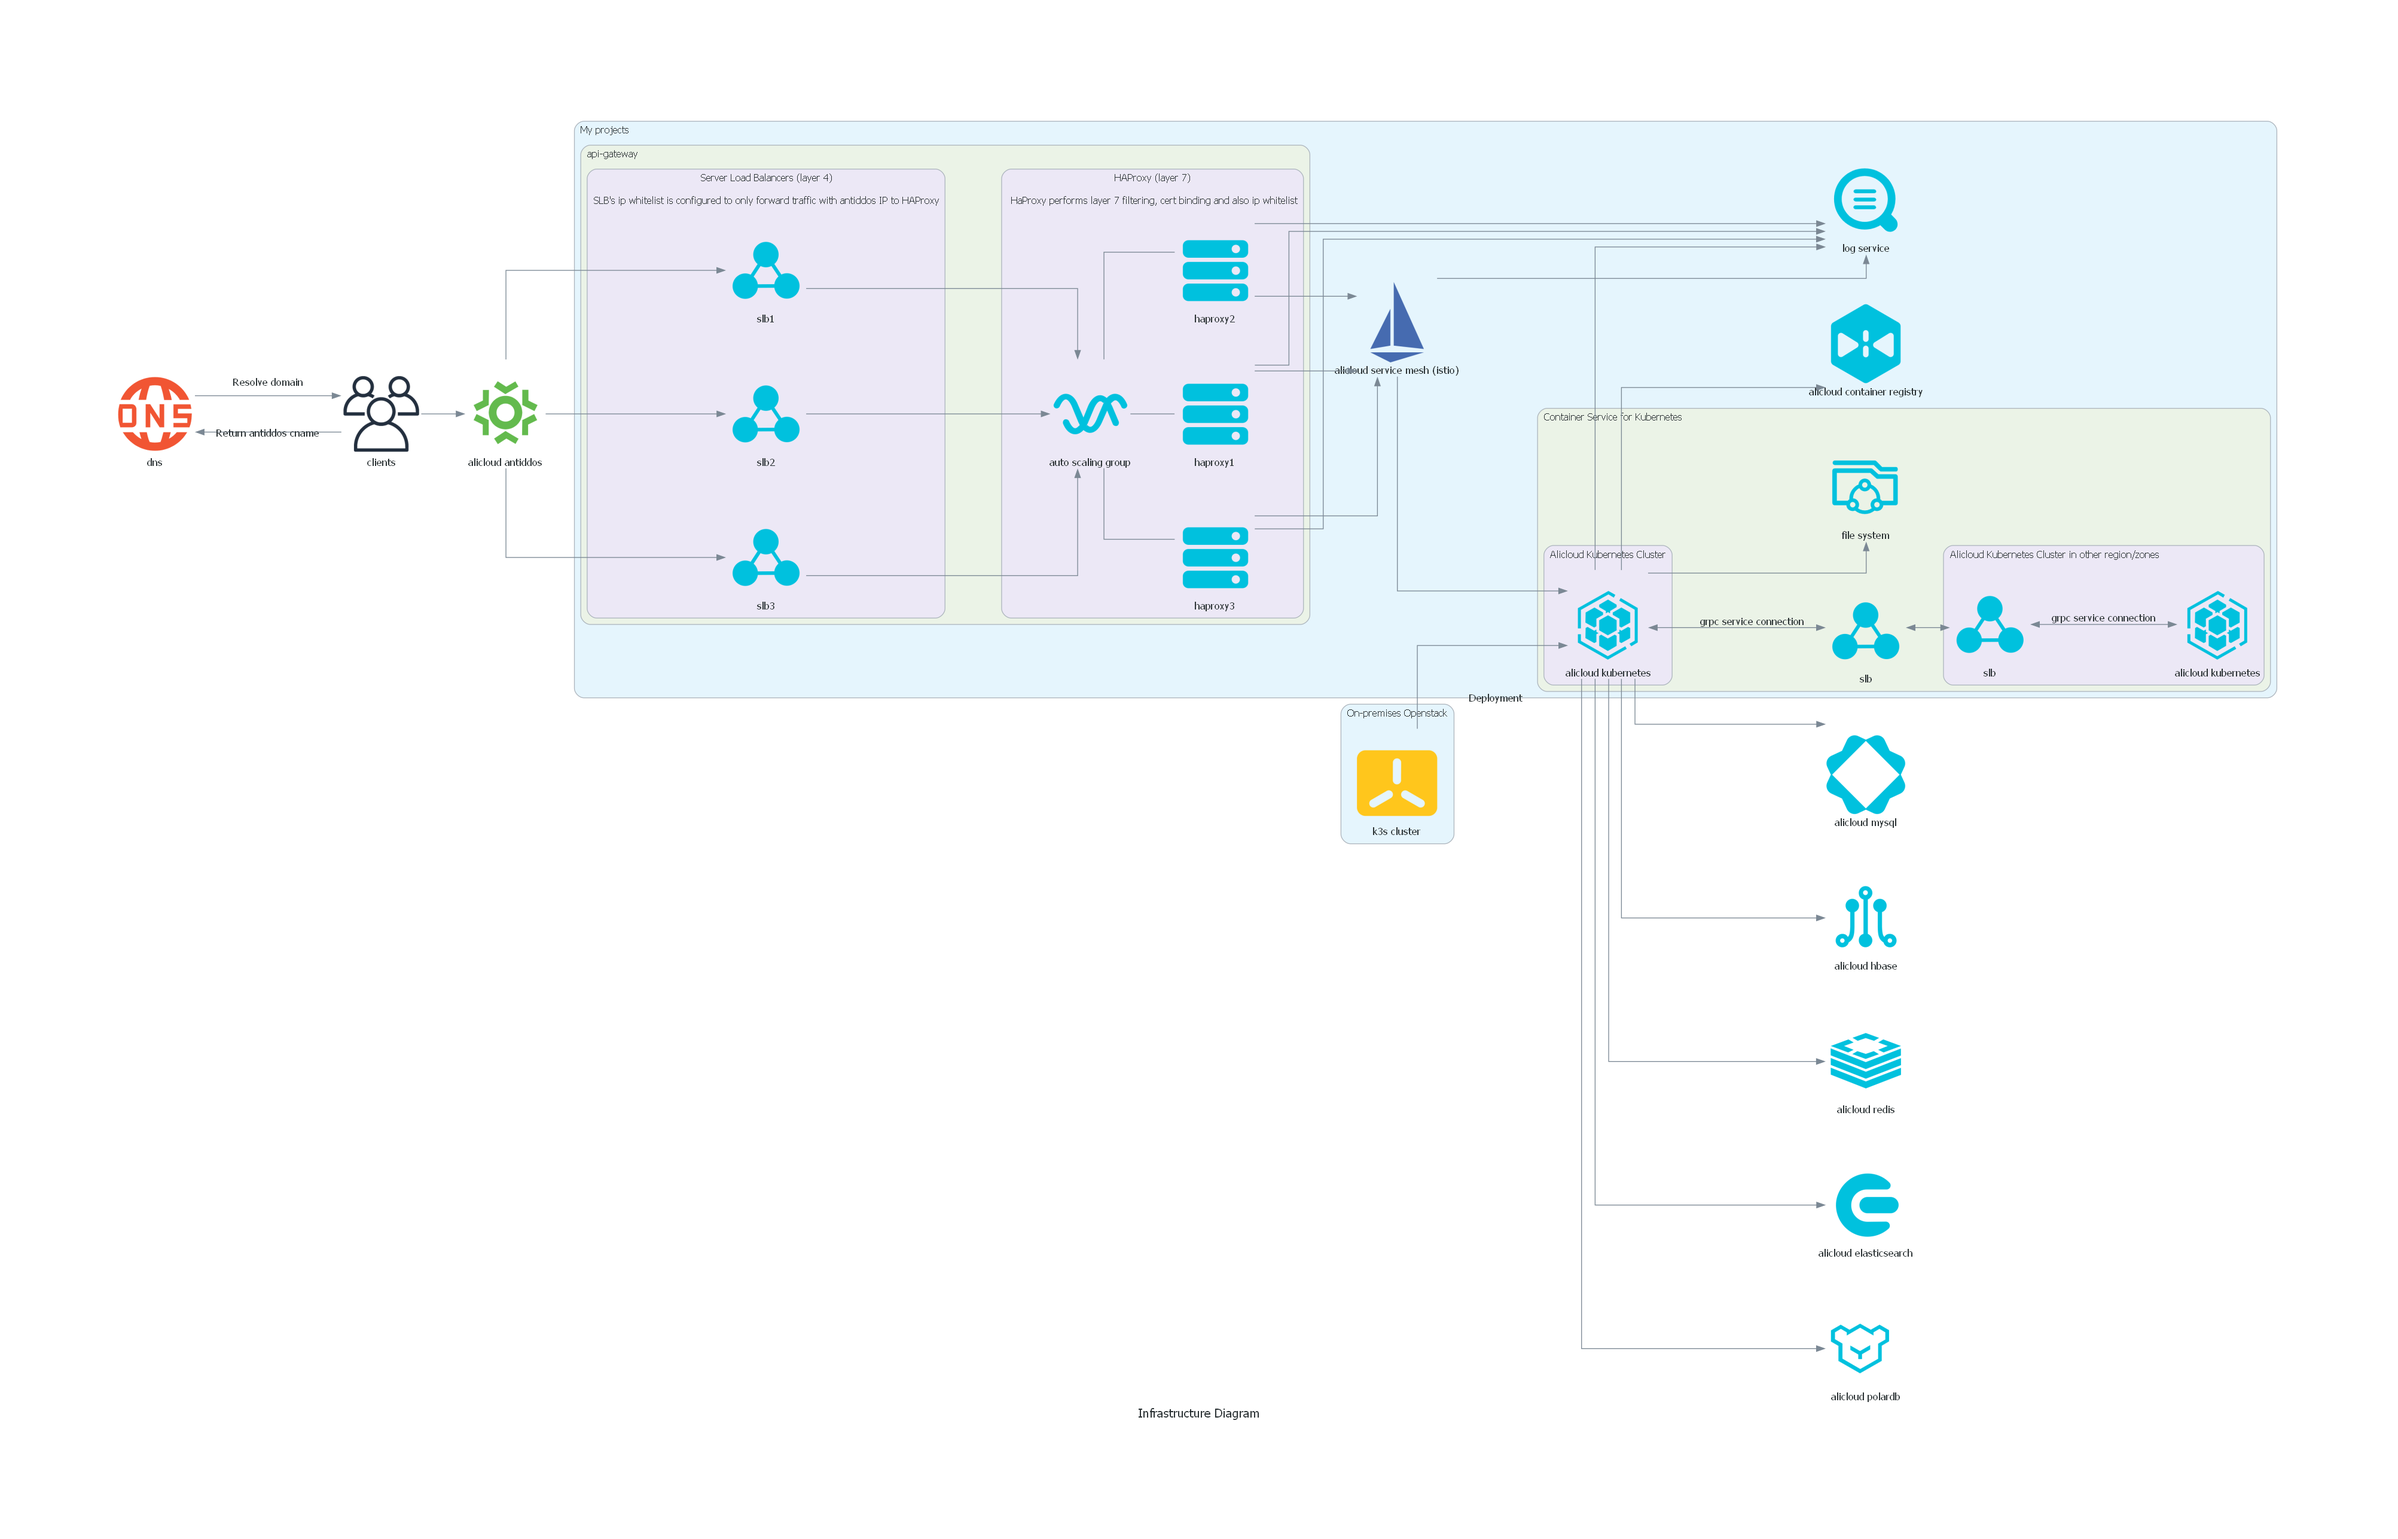
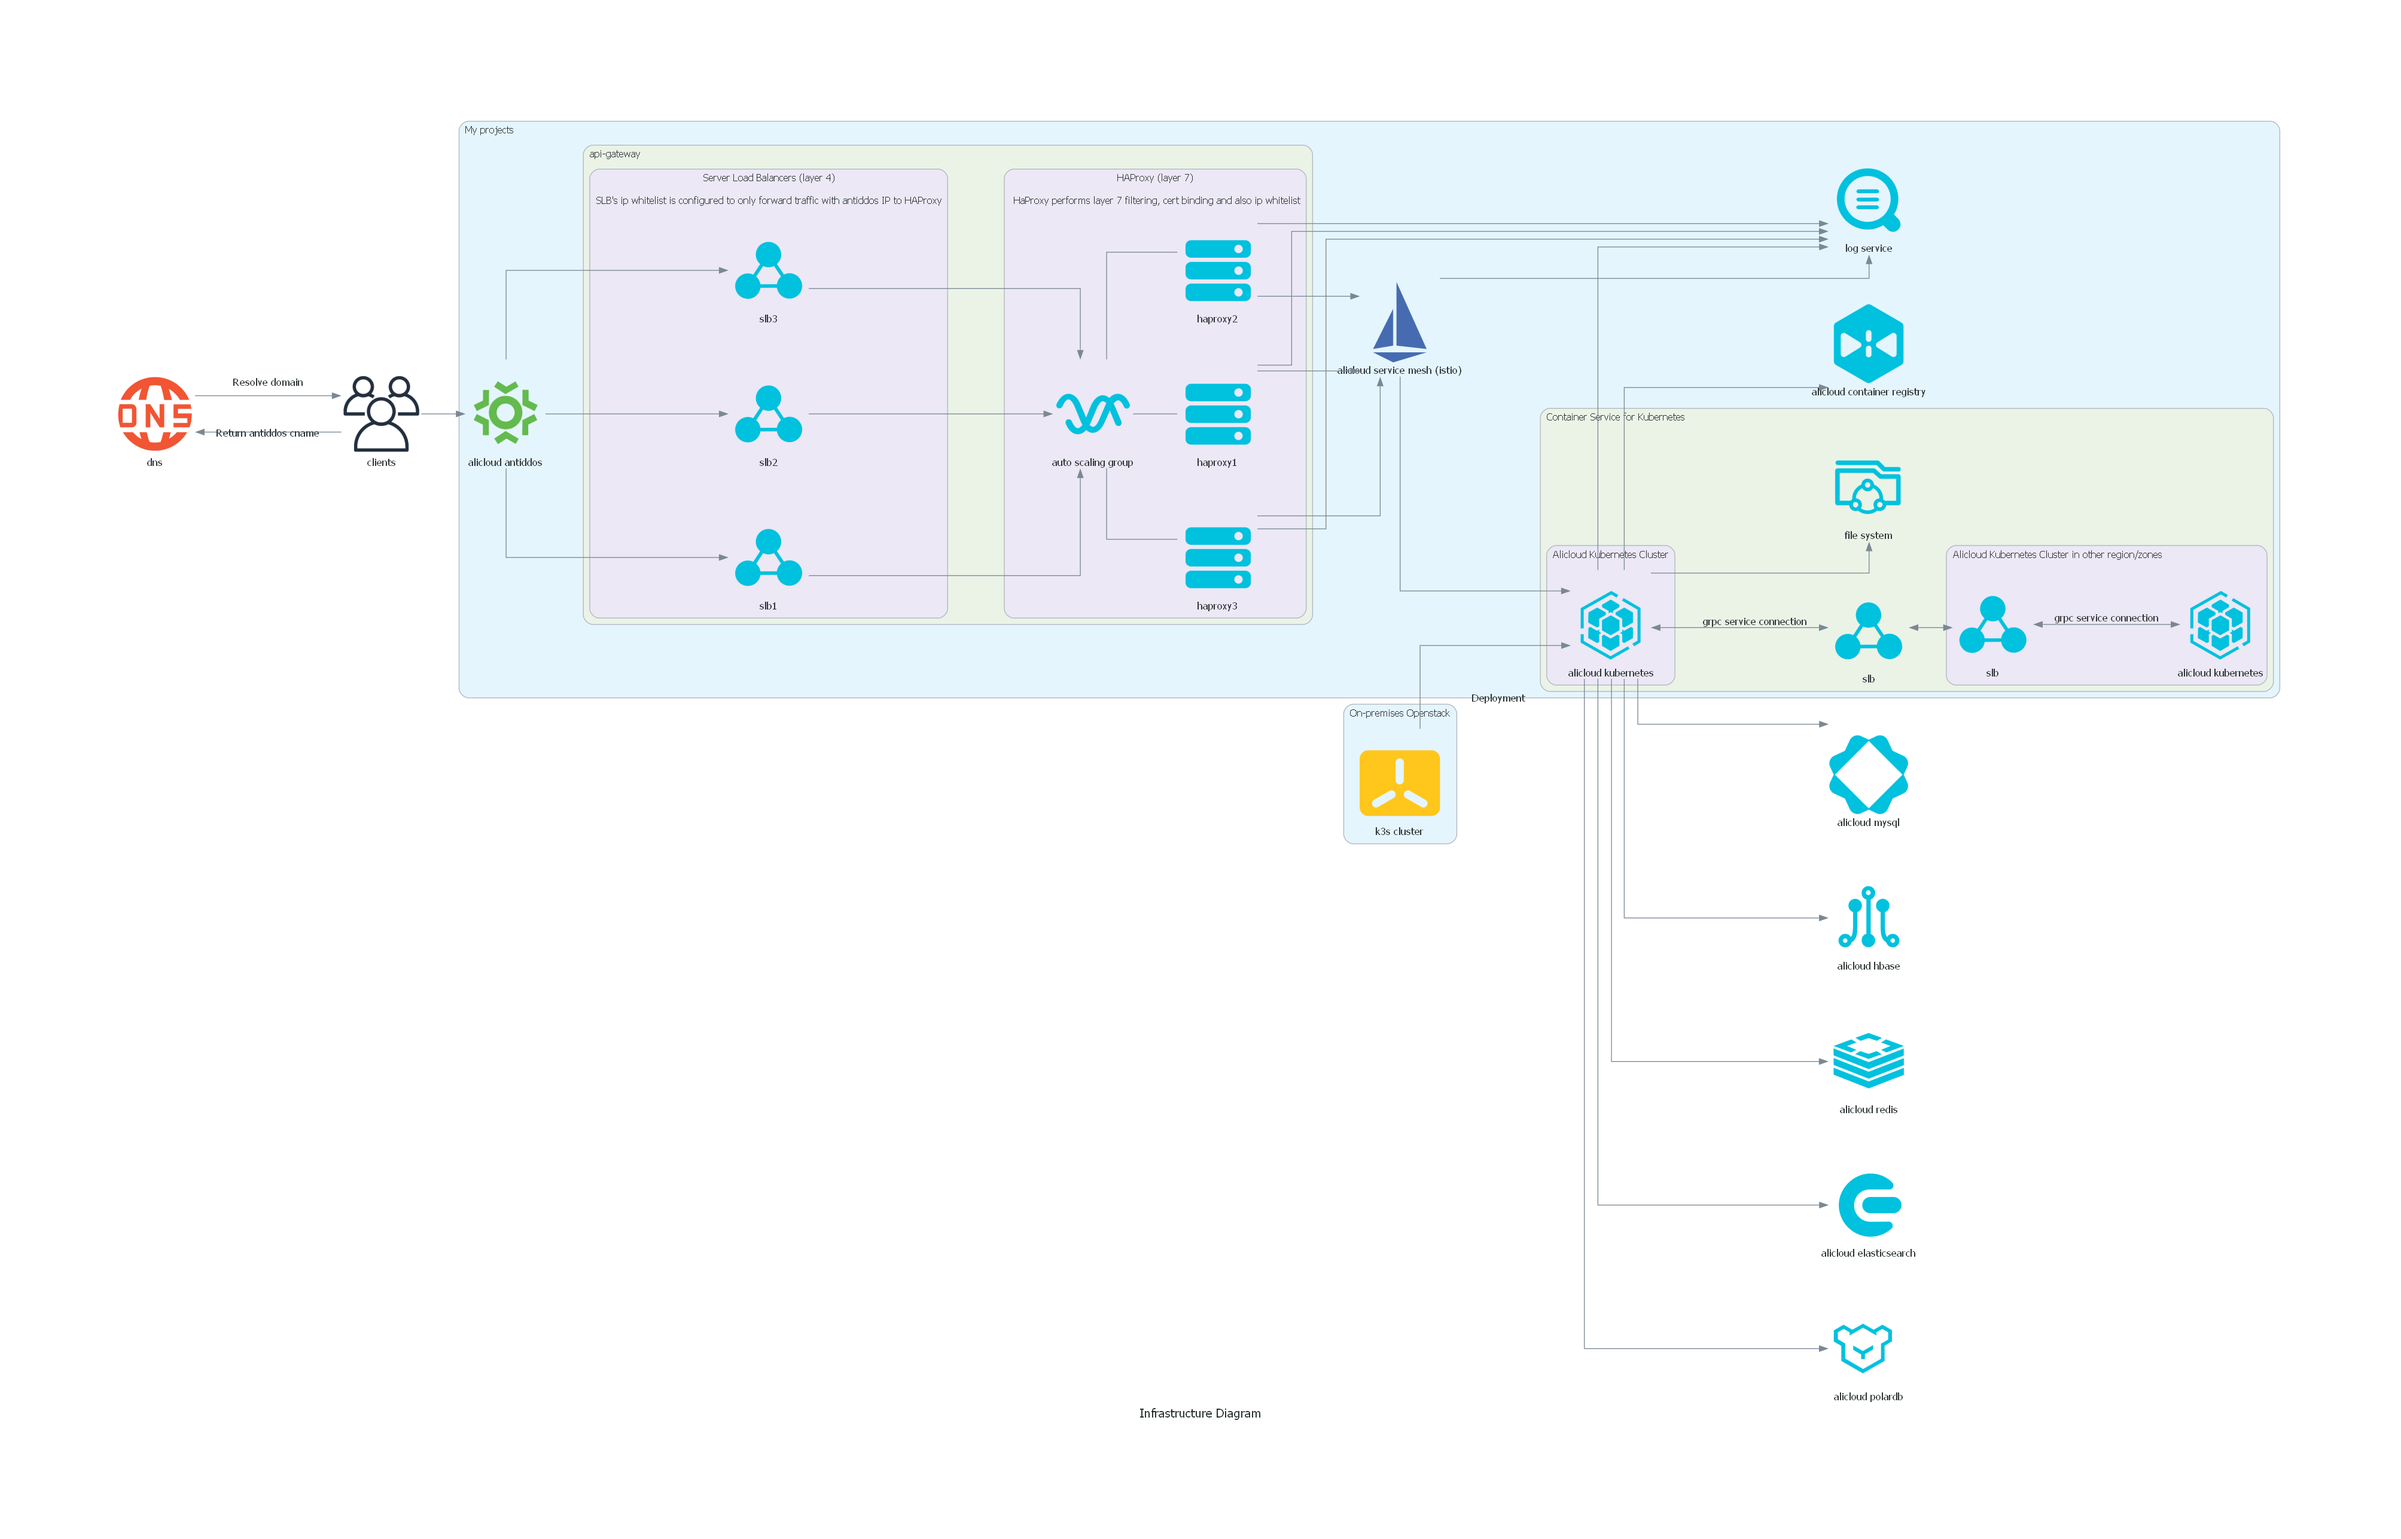
update diagram

diff --git a/part 2/diagram.py b/part 2/diagram.py
@@ -43,6 +43,7 @@ with Diagram("Infrastructure Diagram", graph_attr=graph_attr, show=False):
         k3s = K3S("k3s cluster")
 
     with Cluster("My projects"):
+        antiddos = AntiDdosPro("alicloud antiddos")
         asm = Istio("alicloud service mesh (istio)")
         sls = SLS("log service")
         registry = ContainerRegistry("alicloud container registry")
@@ -66,7 +67,7 @@ with Diagram("Infrastructure Diagram", graph_attr=graph_attr, show=False):
                 other_ack = ContainerService("alicloud kubernetes")
 
     client >> Edge(label="Return antiddos cname") >> dns
-    dns >> Edge(label="Resolve domain") >> client >> AntiDdosPro("alicloud antiddos") >> slb >> ess
+    dns >> Edge(label="Resolve domain") >> client >> antiddos >> slb >> ess
     for hp in haproxy:
         ess - hp
     k3s >> Edge(label="Deployment") >> ack
@@ -89,11 +90,16 @@ with Diagram("k8s diagram", show=False, graph_attr=edge_attr):
         jenkins = Jenkins("jenkins")
         argocd = Argocd("argocd")
         gitlabci = Gitlabci("gitlabci")
-        get = Edge(label="Get creds")
-        LetsEncrypt("acme-client")
-        vault - get - Atlantis("atlantis") - Edge(label="Integration") - Gitlab("gitlab") - gitlabci - get - vault
-        vault - get - argocd << Edge(label="trigger") << gitlabci
-        vault - get - jenkins
+        atlantis = Atlantis("atlantis")
+        inject = Edge(label="inject Creds")
+        atlantis - Edge(label="Integration") - Gitlab("gitlab") - gitlabci
+        vault >> inject >> jenkins
+        vault >> inject >> auth
+        vault >> inject >> gitlabci
+        vault >> inject >> argocd
+        LetsEncrypt("acme-client") >> Edge(label="Store certs") >> vault
+        argocd << Edge(label="trigger") << gitlabci
+        vault >> inject >> atlantis
     
     with Cluster("Alicloud Kubernetes Cluster"):
         apiserver = API("kube-apiserver")
